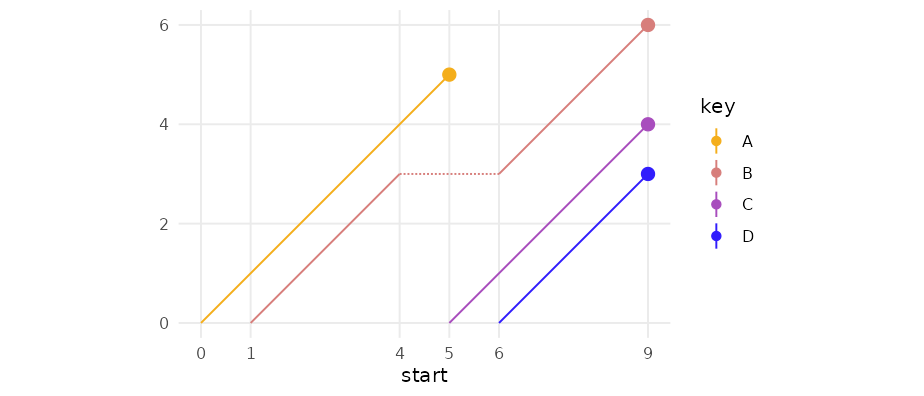
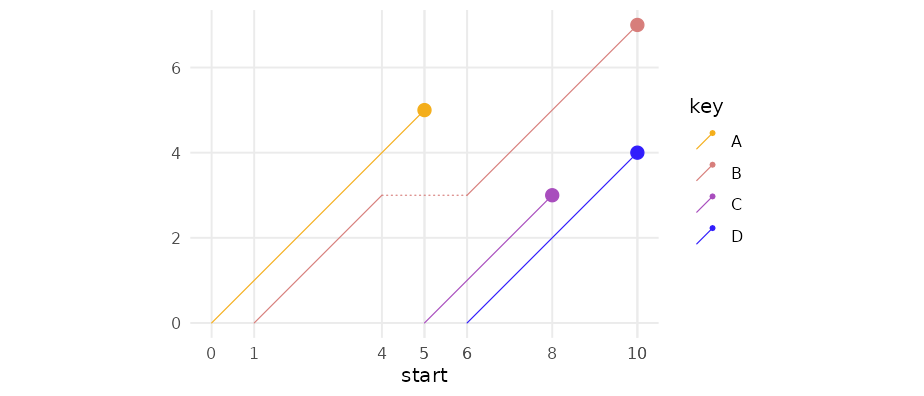
change linetype of connectors from "11" to "dotted"

diff --git a/README.md b/README.md
@@ -22,7 +22,7 @@ The following functions are implemented in this small package:
     it easy to add minimal emphasis to your plots by means of a point
     layer.
 
--   `geom_lexis()`: a layer to plot a 45° ‘lifeline’
+-   `geom_lexis()`: a layer to plot a 45° ‘lifeline’ of an event
 
 ## Installation
 
@@ -35,7 +35,9 @@ devtools::install_github("flrd/ggpointless")
 
 ## Usage
 
-Using the functions `geom_pointless()`, which is powered by
+### geom_pointless
+
+Using the functions `geom_pointless()`, which is a constructor for
 `stat_pointless()`, you can highlight the first, or last observations,
 sample minimum and maximum with the goal to provide some additional
 context. Or just some visual sugar. `geom_pointless()` behaves like
@@ -65,29 +67,34 @@ ggplot(df1, aes(x = var1, y = var2)) +
 
 <img src="man/figures/README-hello_world-1.png" width="100%" style="display: block; margin: auto;" />
 
+### geom_lexis
+
 `geom_lexis()` is a combination of a segment and a point layer. Given a
-start and an end, this functions draws a 45° line.
+start value and an end value, this functions draws a 45° line which
+indicates the duration of an event.
 
 ``` r
 df2 <- data.frame(
   key = c("A", "B", "B", "C", "D"),
   start = c(0, 1, 6, 5, 6),
-  end = c(5, 4, 9, 9, NA)
+  end = c(5, 4, 10, 8, 10)
 )
 
-ggplot(df2, aes(x = start, xend = end, color = key)) +
-  geom_lexis(aes(linetype = after_scale(type)), point.size = 3) +
-  scale_x_continuous(breaks = unique(c(df2$start, df2$end))) +
-  scale_color_manual(values = cols) +
+p <- ggplot(df2, aes(x = start, xend = end, color = key)) +
+  geom_lexis(aes(linetype = after_scale(type)), point.size = 3) 
+p +
   coord_equal() +
+  scale_x_continuous(breaks = c(df2$start, df2$end)) +
+  scale_color_manual(values = cols) +
   theme_minimal() +
   theme(panel.grid.minor = element_blank())
-#> Missing 'xend' values set to 9
 ```
 
 <img src="man/figures/README-geom_lexis-1.png" width="100%" style="display: block; margin: auto;" />
 
-See the `vignette("ggpointless")` for more details.
+See the
+[`vignette("ggpointless")`](https://flrd.github.io/ggpointless/articles/ggpointless.html)
+for more details.
 
 ## Data
 
@@ -98,7 +105,9 @@ The `ggpointless` package contains two data sets:
 2.  `covid_vac` : [COVID-19 Cases and Deaths by Vaccination
     Status](https://covid.cdc.gov/covid-data-tracker/#rates-by-vaccine-status)
 
-See the `vignette("examples")` for possible use cases.
+See the
+[`vignette("examples")`](https://flrd.github.io/ggpointless/articles/examples.html)
+for possible use cases.
 
 ## Code of Conduct
 
